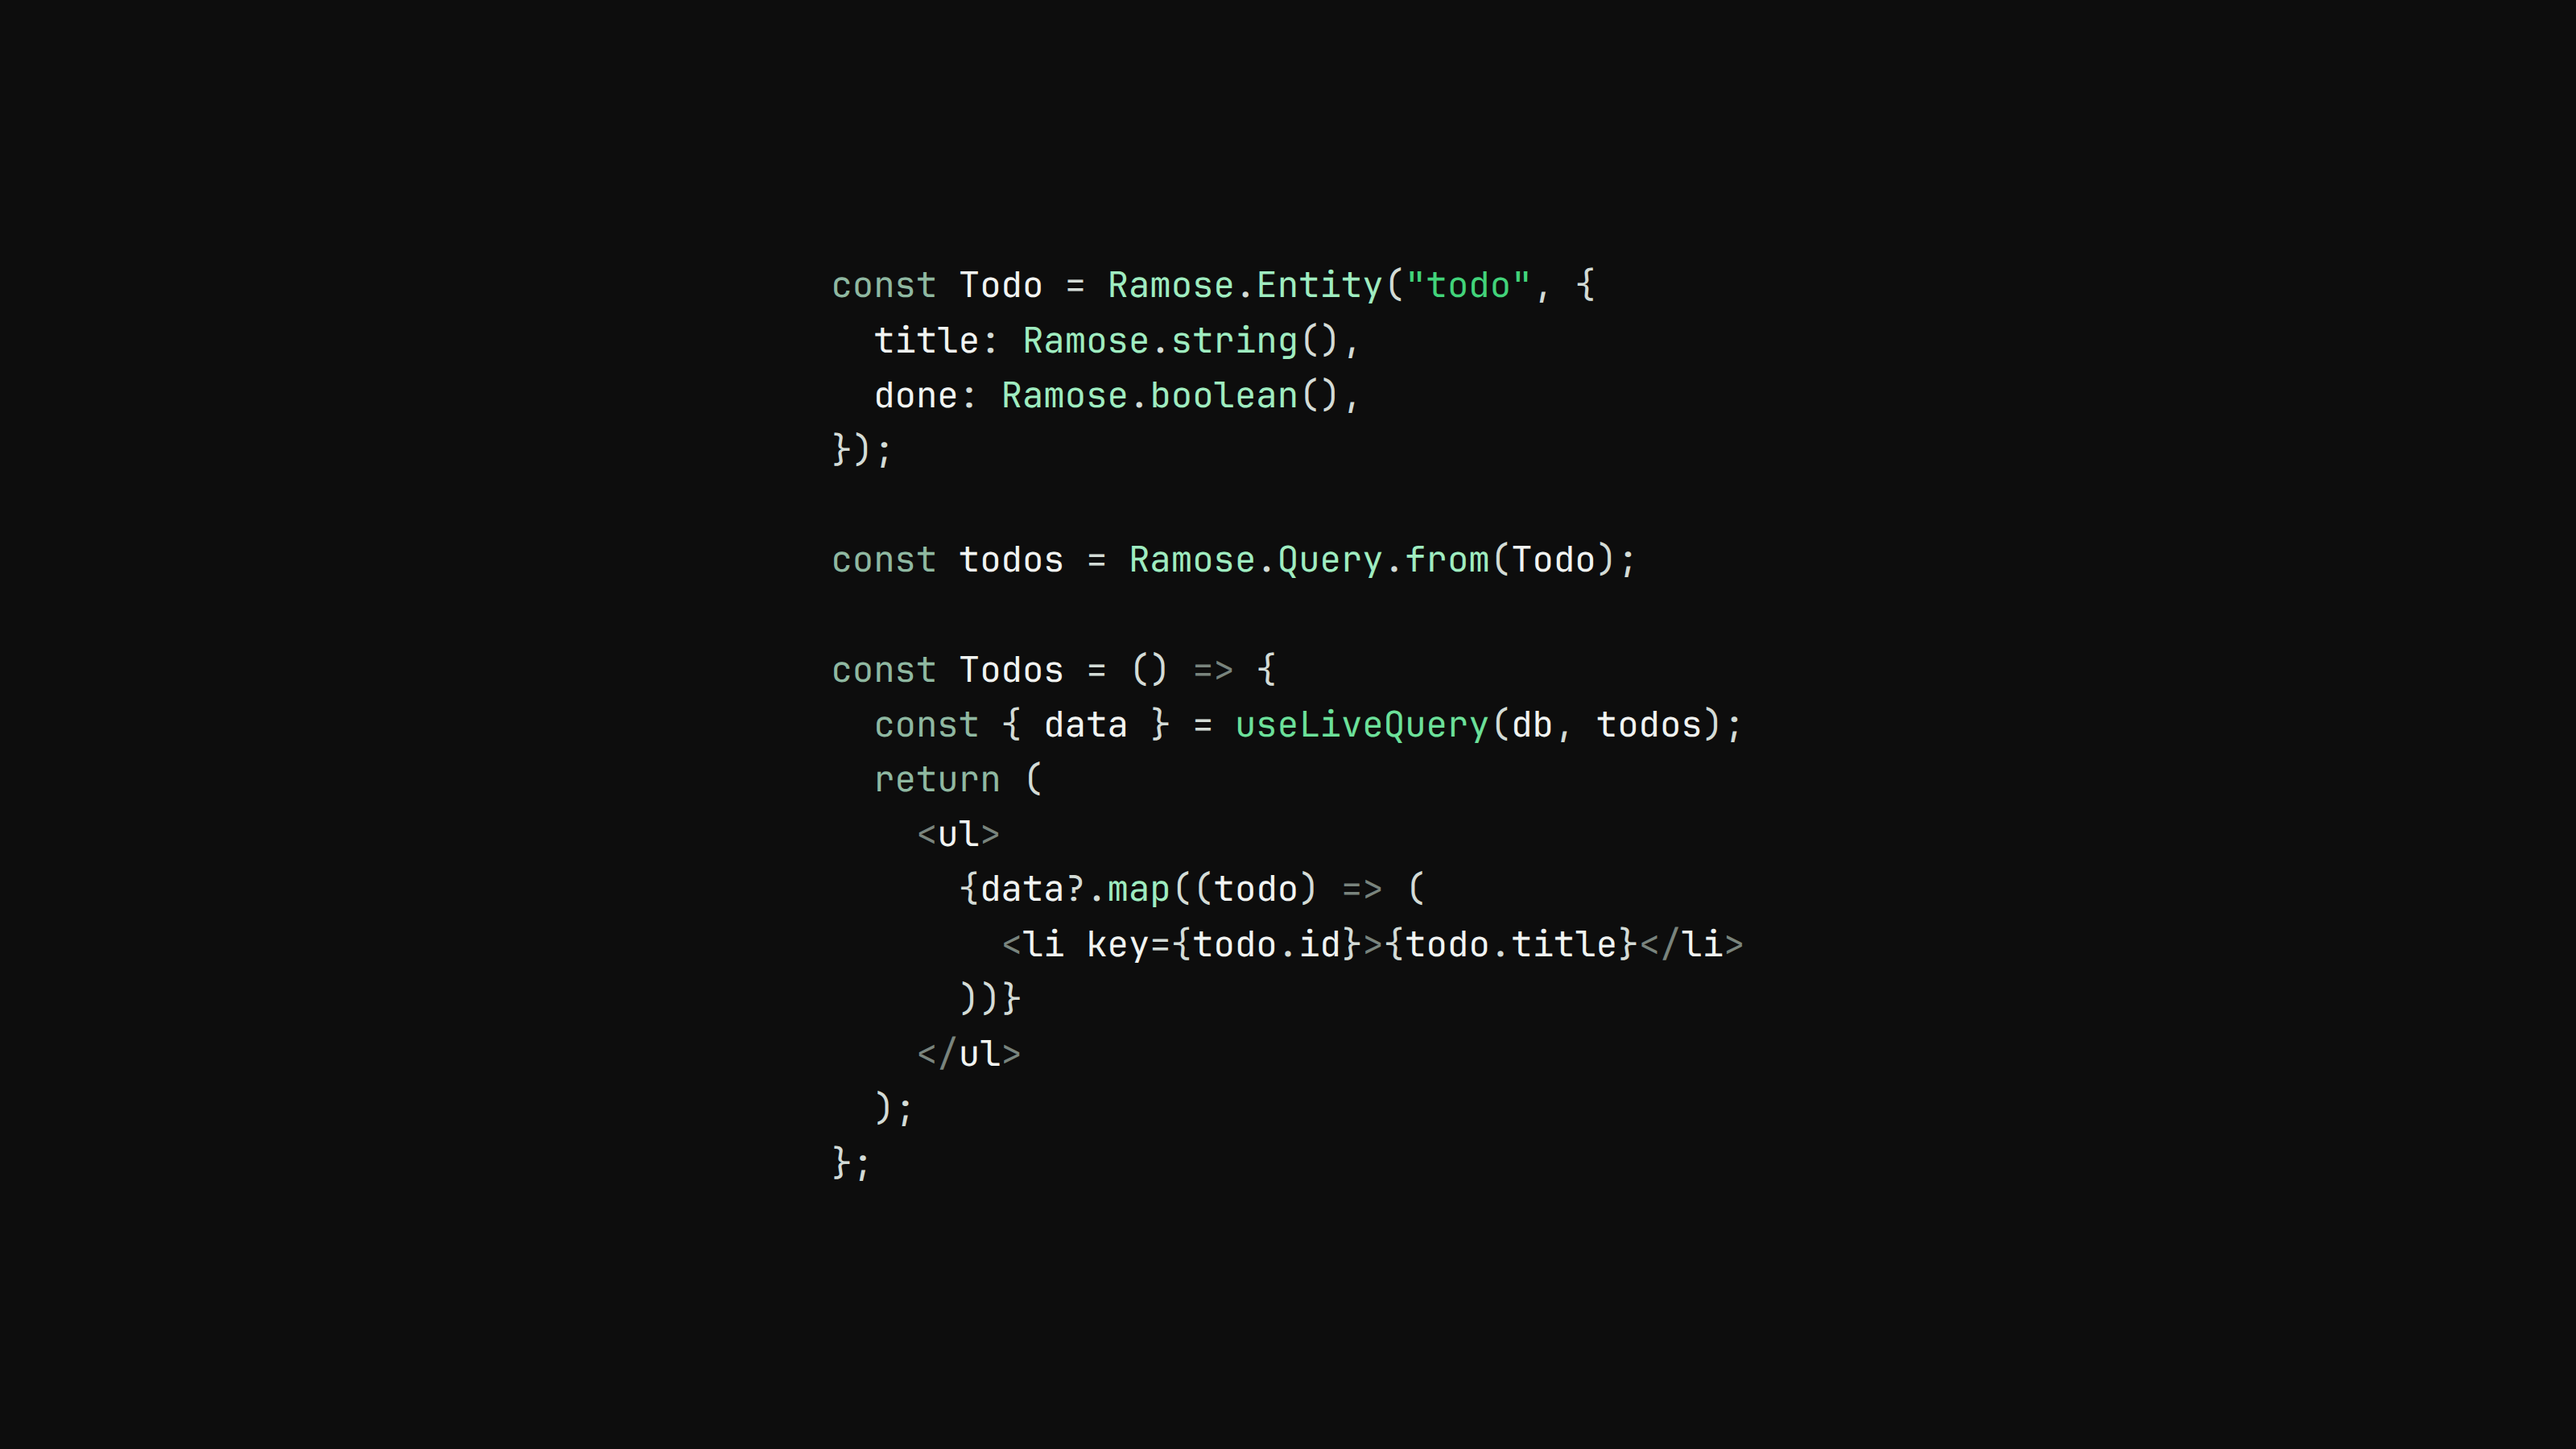
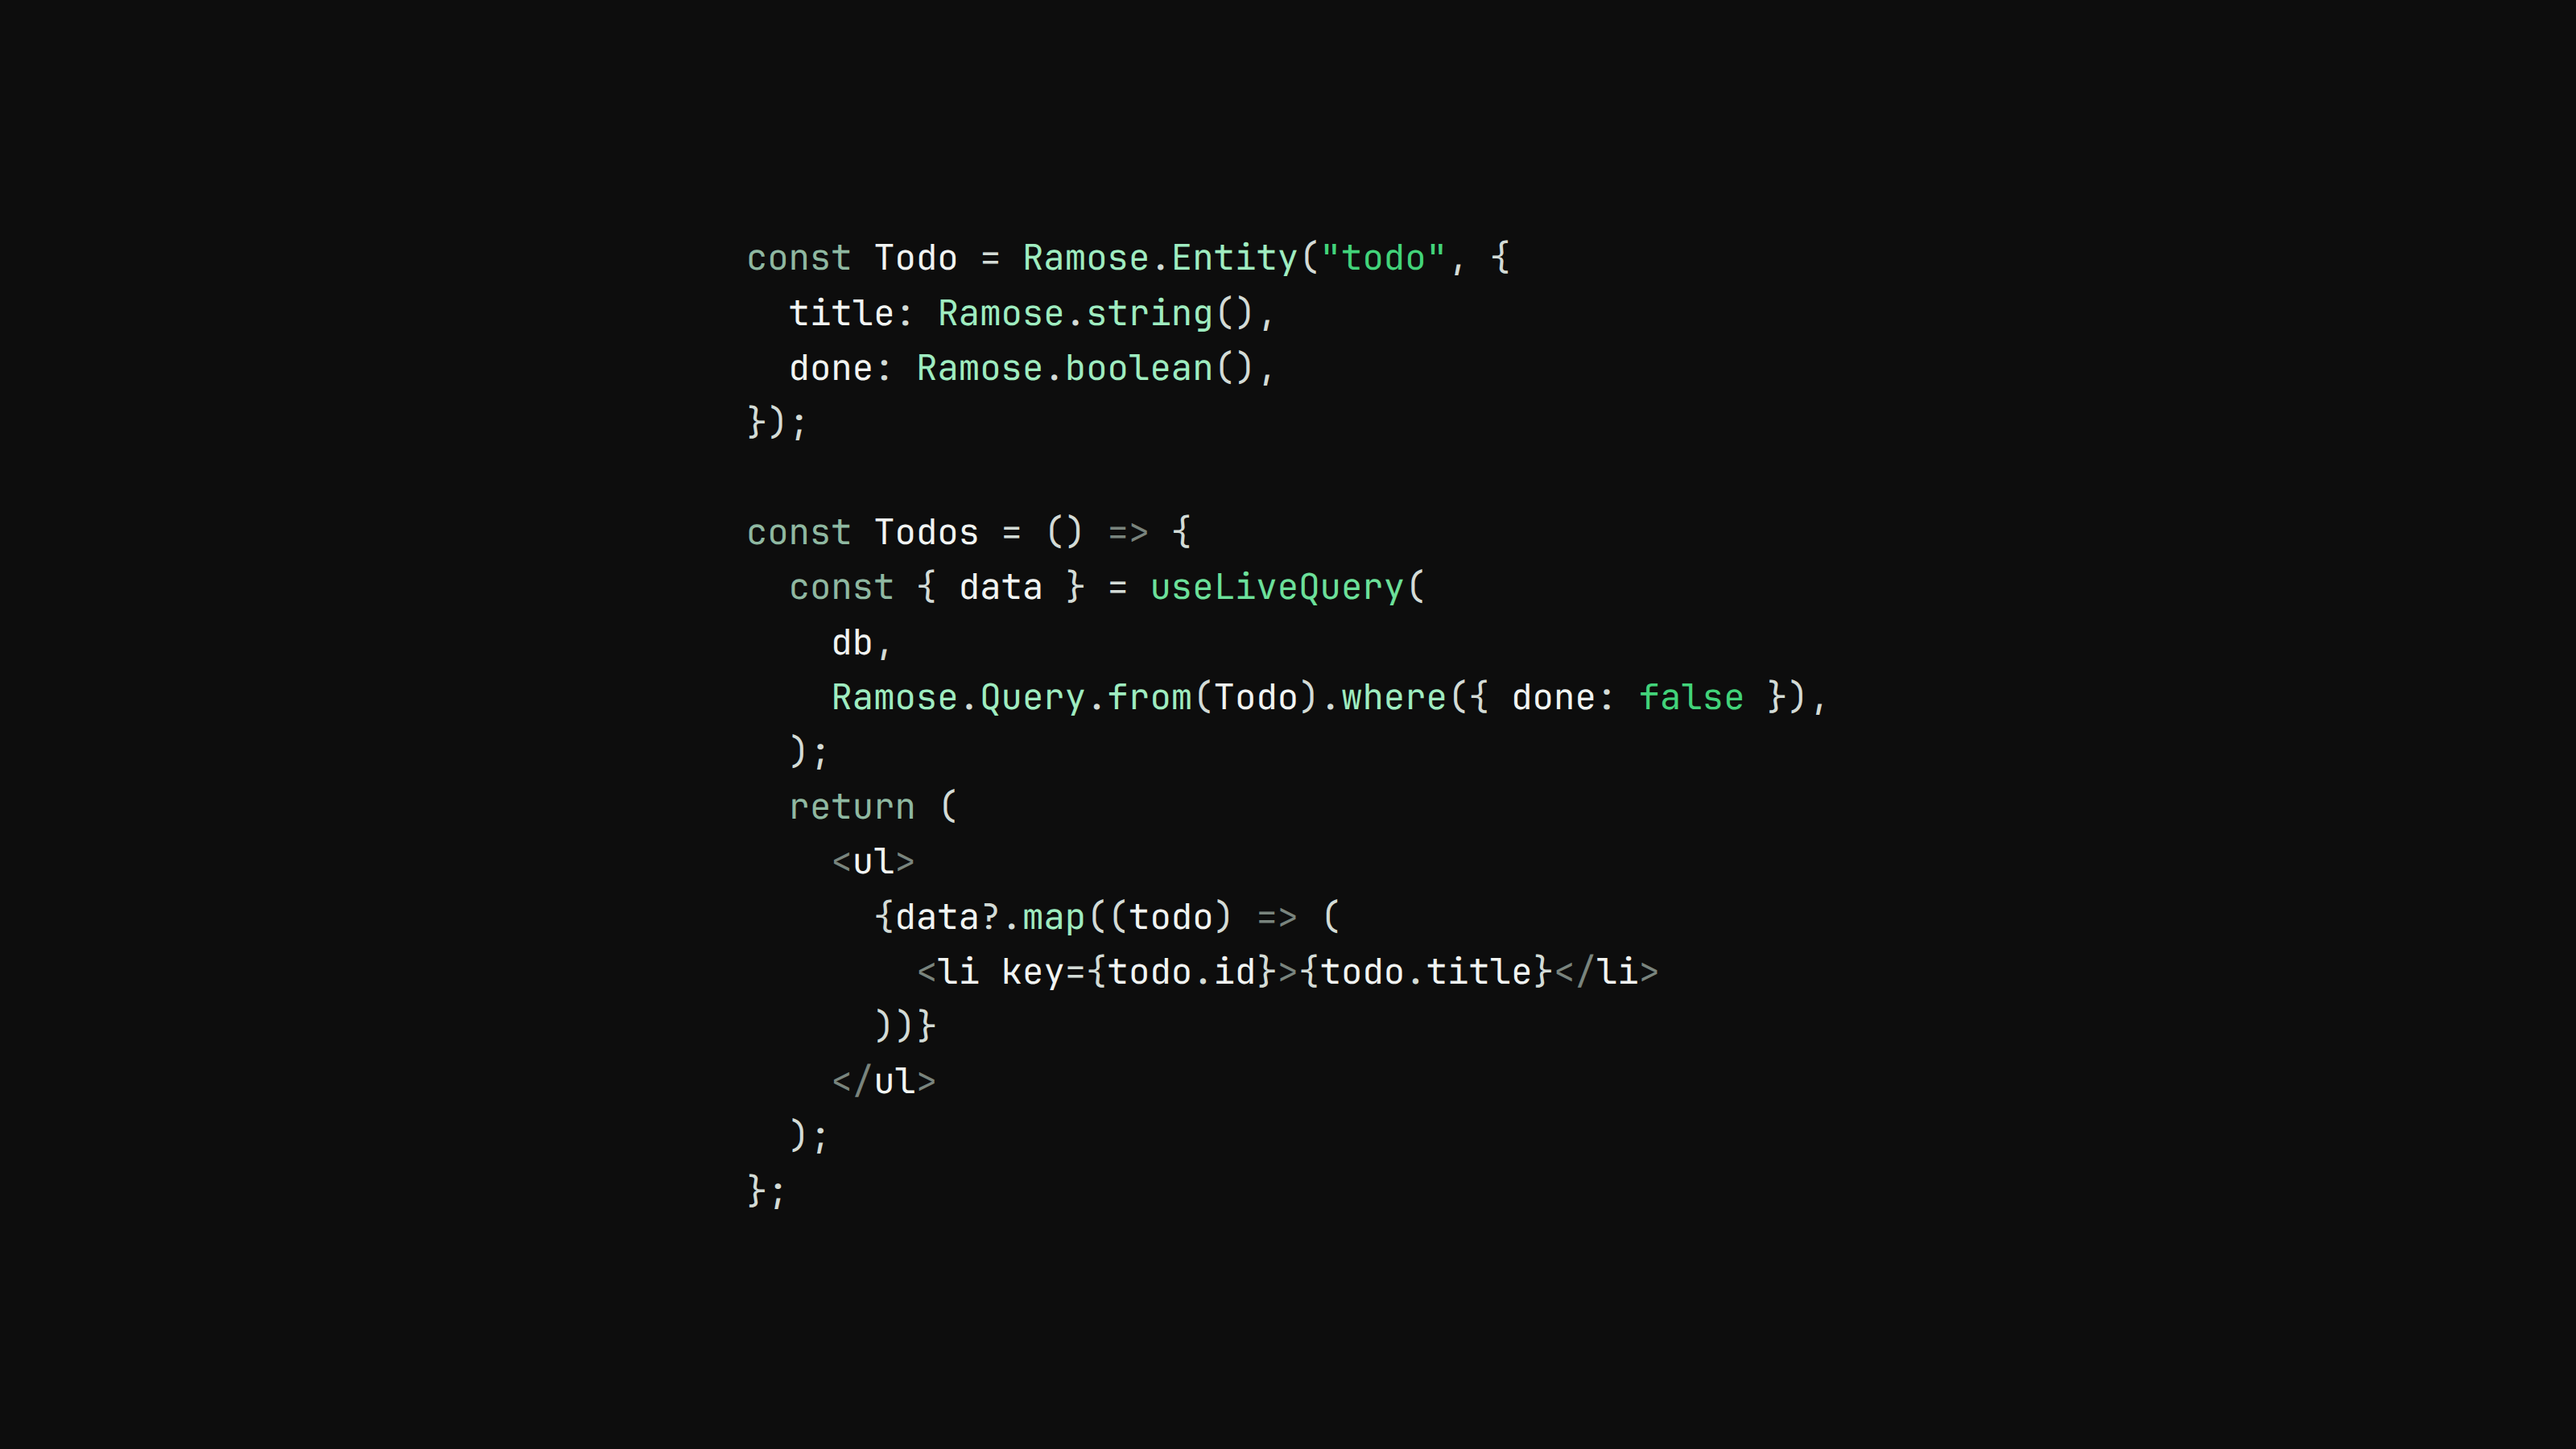
social: inline Query.from().where on useLiveQuery
Filter open todos in the hook call instead of a standalone query value.

diff --git a/website/scripts/social/live-queries.html b/website/scripts/social/live-queries.html
@@ -49,7 +49,8 @@
       .live {
         color: var(--green-bright);
       }
-      .str {
+      .str,
+      .bool {
         color: var(--green);
       }
       .id {
@@ -67,10 +68,11 @@
   <span class="id">done</span>: <span class="fn">Ramose</span>.<span class="fn">boolean</span>(),
 });
 
-<span class="kw">const</span> <span class="id">todos</span> = <span class="fn">Ramose</span>.<span class="fn">Query</span>.<span class="fn">from</span>(<span class="id">Todo</span>);
-
 <span class="kw">const</span> <span class="id">Todos</span> = () <span class="p">=&gt;</span> {
-  <span class="kw">const</span> { <span class="id">data</span> } = <span class="live">useLiveQuery</span>(<span class="id">db</span>, <span class="id">todos</span>);
+  <span class="kw">const</span> { <span class="id">data</span> } = <span class="live">useLiveQuery</span>(
+    <span class="id">db</span>,
+    <span class="fn">Ramose</span>.<span class="fn">Query</span>.<span class="fn">from</span>(<span class="id">Todo</span>).<span class="fn">where</span>({ <span class="id">done</span>: <span class="bool">false</span> }),
+  );
   <span class="kw">return</span> (
     <span class="p">&lt;</span><span class="id">ul</span><span class="p">&gt;</span>
       {<span class="id">data</span>?.<span class="fn">map</span>((<span class="id">todo</span>) <span class="p">=&gt;</span> (

diff --git a/website/scripts/social/live-queries.test.ts b/website/scripts/social/live-queries.test.ts
@@ -11,11 +11,13 @@ const html = readFileSync(
 const visible = html.replace(/<[^>]+>/g, "");
 
 describe("live-query social card", () => {
-  test("shows the schema, the query, and the React hook", () => {
+  test("shows the schema and an inline filtered live query", () => {
     expect(visible).toContain('Entity("todo"');
-    expect(visible).toContain("Query.from");
-    expect(visible).toContain("useLiveQuery");
+    expect(visible).toContain(
+      "useLiveQuery(\n    db,\n    Ramose.Query.from(Todo).where({ done: false }),\n  )",
+    );
     expect(visible).toContain("data?.map");
+    expect(visible).not.toContain("const todos");
   });
 
   test("does not name the site or ship a mark", () => {
